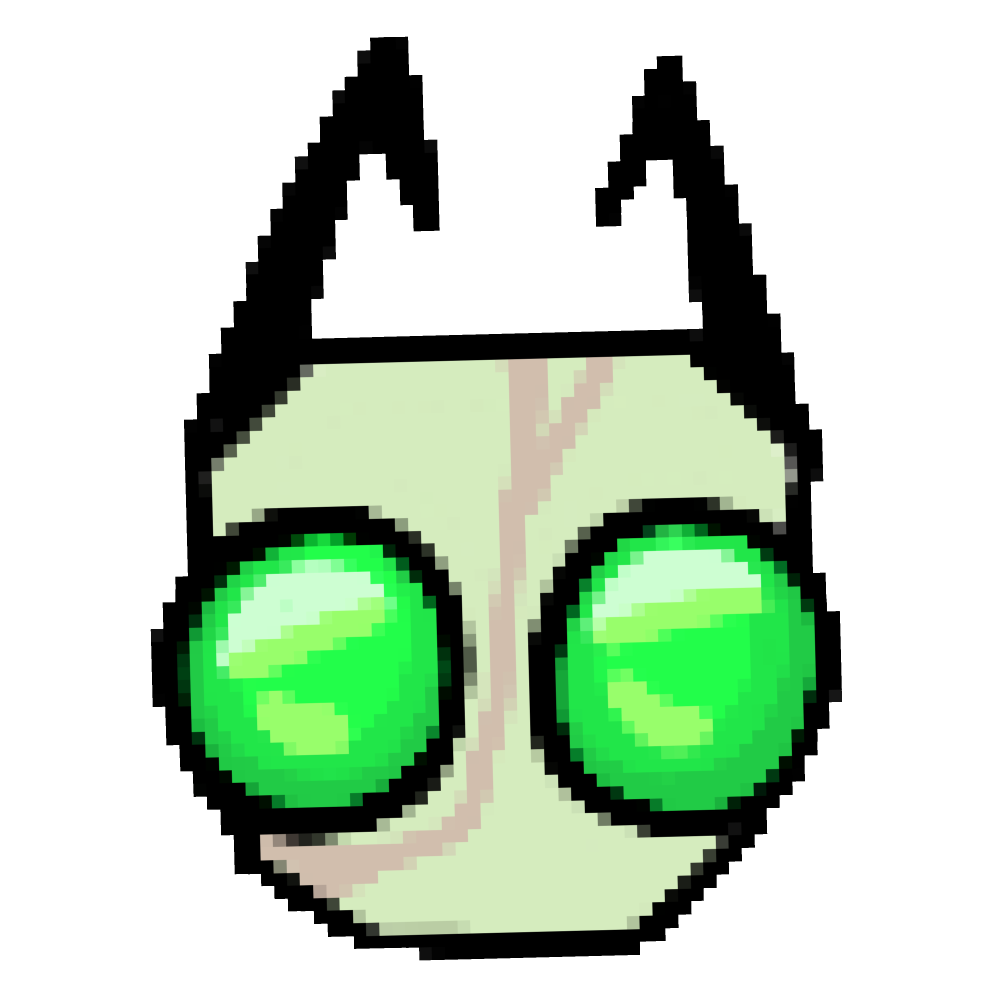
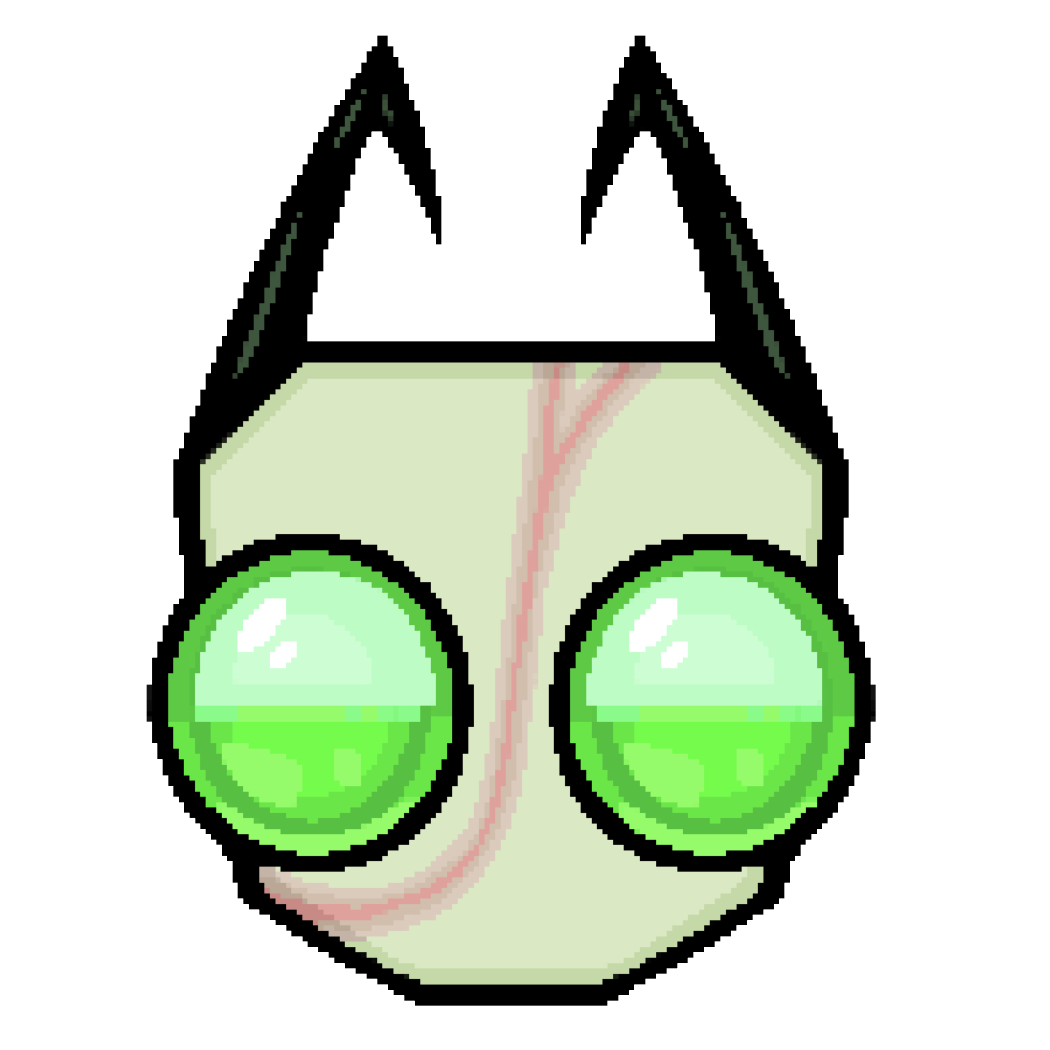
dark theme, and also goofin and goobin

Changed region(s): [[0.124, 0.031, 0.868, 0.961], [0.713, 0.372, 0.744, 0.403]]

diff --git a/src/app/app.component.css b/src/app/app.component.css
@@ -1,11 +1,60 @@
+html{
+  background-color: rgb(22, 20, 22);
+}
+
 .sidebar {
   margin: 0;
   padding: 0;
   width: 200px;
-  background-color: #f1f1f1;
+  background-color: #1b1b1b;
   position: fixed;
   height: 100%;
   overflow: auto;
+}
+
+.sidebar button{
+  width: 50px;
+  height: 50px;
+  position:relative;
+  animation: press 0.333s ease-in-out backwards;
+  background-color: transparent;
+  outline: none;
+  border: none;
+}
+
+.sidebar button:active{
+  animation: none;
+}
+
+@keyframes press{
+  0% {
+    transform: scale(1);
+  }
+
+  25% {
+    transform: scale(0.5, 0.3) rotate(-15deg);
+  }
+
+  50% {
+    transform: rotate(15deg) scale(0.75, 1.25);
+  }
+
+  75% {
+    transform: rotate(-5deg);
+  }
+
+  to{
+    transform: scale(1);
+  }
+}
+
+.sidebar button img{
+  width: auto;
+  height: 100%;
+  position: absolute;
+  top: 50%;
+  left: 50%;
+  transform: translate(-50%, -50%);
 }
 
 .dancingkitt{
@@ -18,15 +67,20 @@
   bottom: 0;
   /* right: 0; */
   left: calc(100vw - 180px);
+  background-color: rgb(22, 20, 22);
 }
 
 /* Sidebar links */
 .sidebar a {
   display: block;
-  color: black;
+  color: rgb(255, 255, 255);
   padding: 16px;
   font-size: 16px;
   text-decoration: none;
+}
+
+.sidebar p {
+  color: white;
 }
 
 /* Active/current link */

diff --git a/src/app/app.component.ts b/src/app/app.component.ts
@@ -11,6 +11,13 @@ export class AppComponent implements OnInit {
   goobValue = 0;
   imageName="";
 
+  images = ["assets/sidebar/Goobers0.png",
+    "assets/sidebar/Goobers1.png", 
+    "assets/sidebar/Goobers2.png", 
+    "assets/sidebar/Goobers3.png", 
+    "assets/sidebar/Goobers4.png"];
+  loadedImages = 0;
+
   constructor(private appService: AppService){}
 
   ngOnInit(){
@@ -21,5 +28,22 @@ export class AppComponent implements OnInit {
       this.goobValue = this.appService.getGoob();
     }
     this.imageName = "assets/sidebar/Goobers"+ this.goobValue +".png";
+  }
+
+  public testFunc(){
+    const previousGoobValue = this.goobValue;
+    while(previousGoobValue == this.goobValue){
+      this.appService.setGoob();
+      this.goobValue = this.appService.getGoob();
+    }
+    
+    this.imageName = "assets/sidebar/Goobers"+ this.goobValue +".png";
+  }
+
+  public loaded(){
+    this.loadedImages++;
+    if(this.images.length == this.loadedImages){
+      //all images loaded
+    }
   }
 }

diff --git a/src/app/art/art.component.css b/src/app/art/art.component.css
@@ -1,9 +1,31 @@
 html{
-    margin-left: 200px;
-    margin-right: 200px;
     text-align: center;
+    background-color: rgb(22, 20, 22);
+    height: auto;
 }
 
+body{
+    background-color: rgb(22, 20, 22);
+    margin-left: 200px;
+    margin-right: 200px;
+}
+
+h1 {
+    color: white;
+}
+
+h2{
+    color: white;
+}
+
+h3{
+    color: white;
+}
+
+p{
+    color: white;
+}
+  
 .mat-accordion {
     margin: 0;
 }
@@ -35,6 +57,7 @@ html{
 .accordion p {
     font-size: 18px;
     line-height: 24px;
+    color: black;
 }
 
 .dosndonts {
@@ -96,6 +119,10 @@ html{
     text-align: center;
     cursor: pointer;
     transition: all 0.25s;
+}
+
+.art-column h3 {
+    color: black;
 }
 
 .art-row-2 .art-column {

diff --git a/src/app/app.component.html b/src/app/app.component.html
@@ -1,6 +1,8 @@
 <div class="sidebar">
     <div class="title">
-        <img src={{imageName}}/>
+        <button (click)="testFunc()">
+            <img src={{imageName}}/>
+        </button>
         <p>The Home of Tee!</p>
     </div>
     <div class="routes">
@@ -12,6 +14,7 @@
         <a href="https://twitter.com/Tee_Doodles"target="_blank">Twitter</a>
         <a href="https://bsky.app/profile/teedoodles.bsky.social"target="_blank">Bluesky</a>
     </div>
+    <img hidden *ngFor="let img of images;" [src]="img" (load)="loaded()" />
 </div>
 
 <div class="dancingkitt">

diff --git a/src/app/modelling/modelling.component.css b/src/app/modelling/modelling.component.css
@@ -1,19 +1,28 @@
 html{
+  text-align: center;
+  background-color: rgb(22, 20, 22);
+  height: auto;
+}
+
+body{
+  background-color: rgb(22, 20, 22);
   margin-left: 200px;
   margin-right: 200px;
-  text-align: center;
 }
 
 h1 {
   font-size: 36px;
+  color: white;
 }
 
 h2 {
   font-size: 30px;
+  color: white;
 }
 
 h3 {
   font-size: 24px;
+  color: white;
 }
 
 @media screen and (max-width: 1100px) {

diff --git a/src/app/home/home.component.css b/src/app/home/home.component.css
@@ -1,19 +1,27 @@
 html{
+  text-align: center;
+  background-color: rgb(22, 20, 22);
+}
+
+body{
+  background-color: rgb(22, 20, 22);
   margin-left: 200px;
   margin-right: 200px;
-  text-align: center;
 }
 
 h1 {
   font-size: 36px;
+  color: white;
 }
 
 h2 {
   font-size: 30px;
+  color: white;
 }
 
 h3 {
   font-size: 24px;
+  color: white;
 }
 
 @media screen and (max-width: 1100px) {
